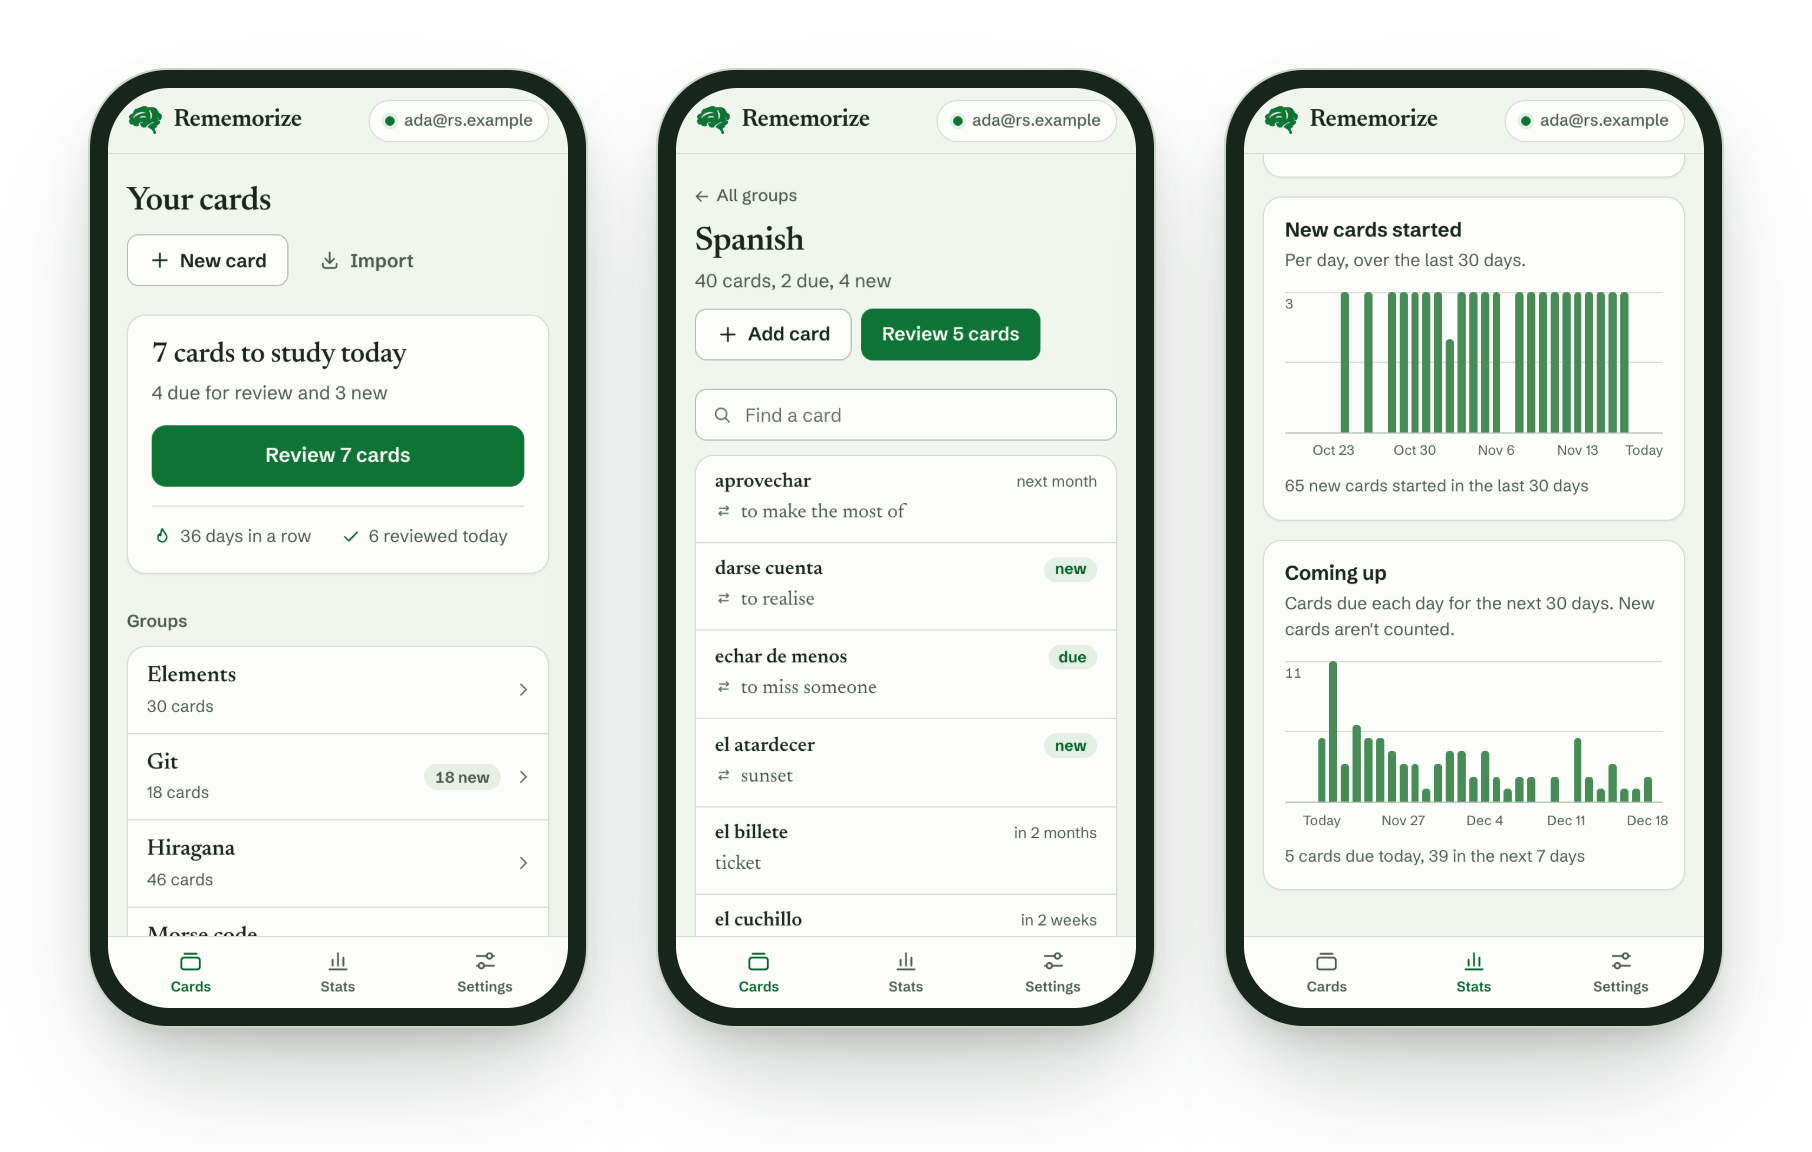
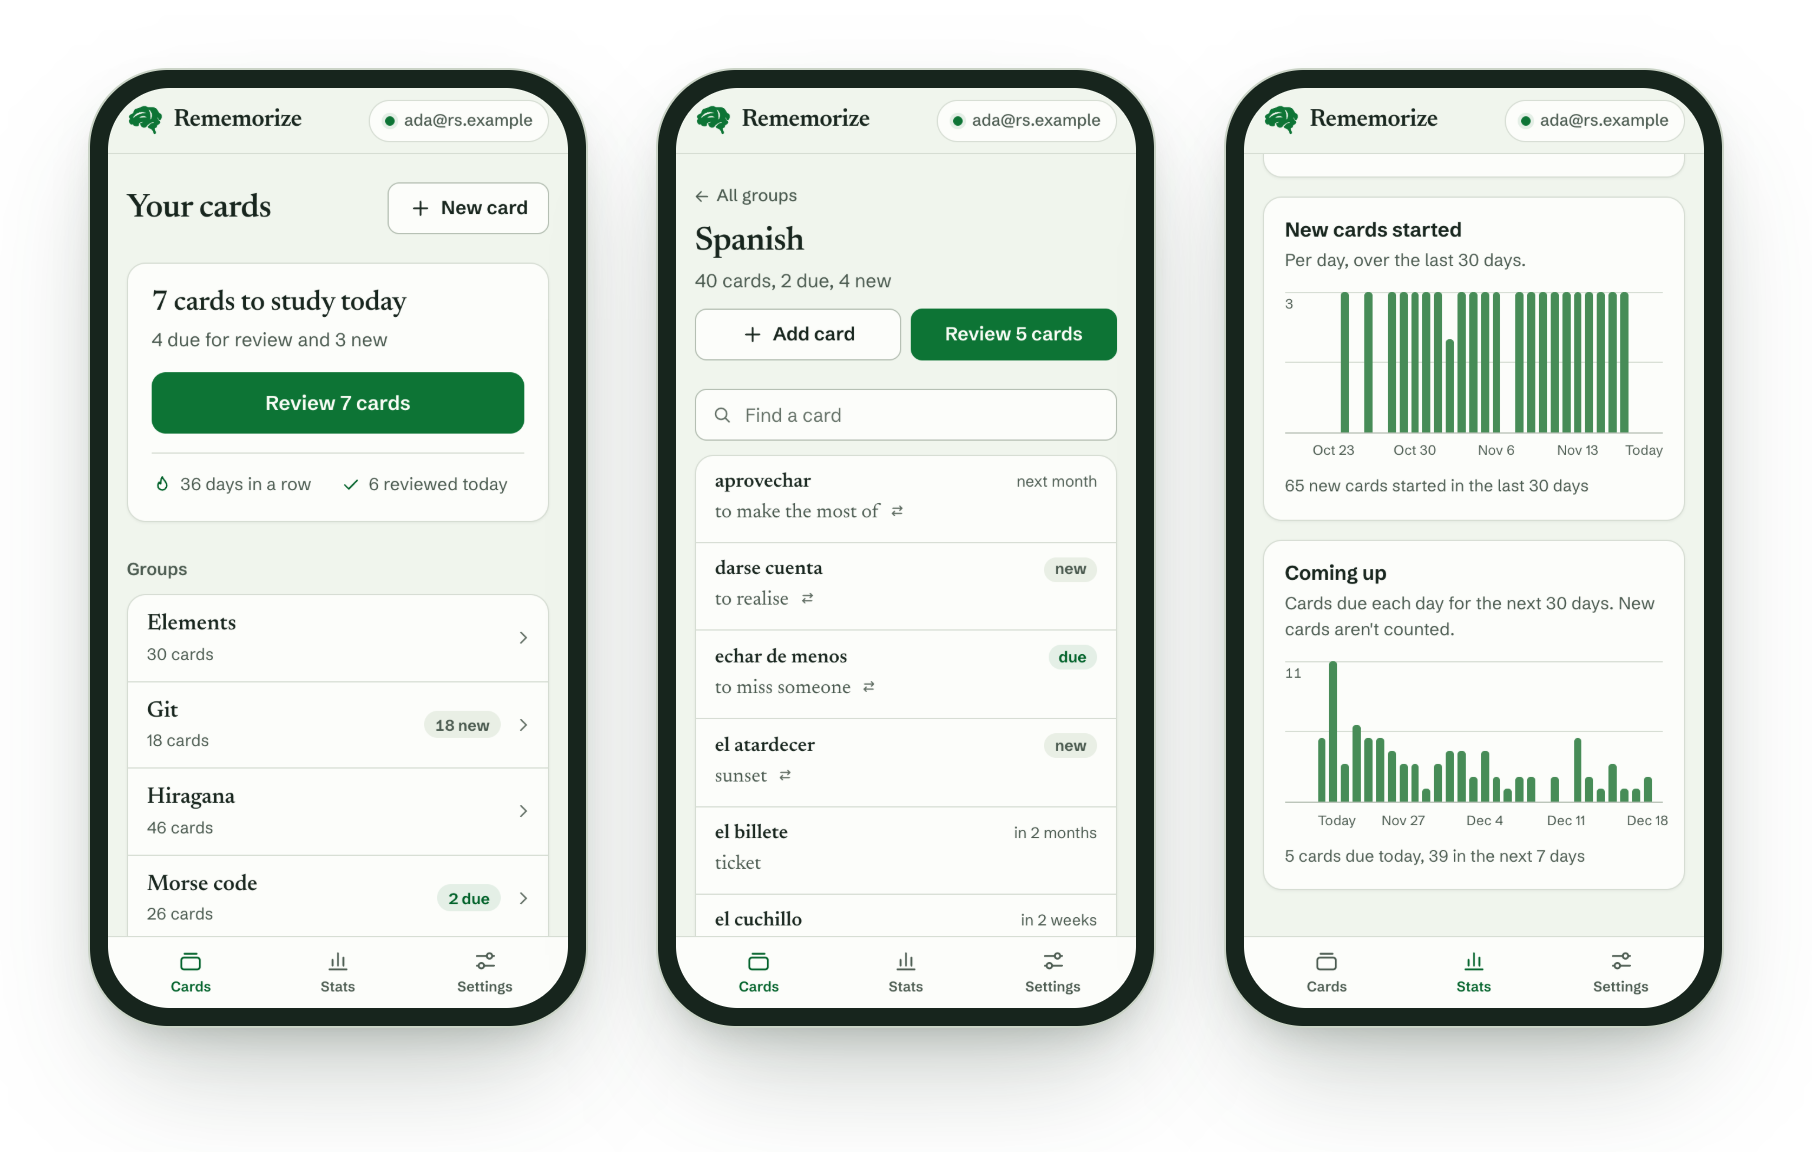
A deeper dark page, and the rest of the third review
Panels barely stood off the dark page, so it is a step deeper. The theme
switch in Settings looked inverted in dark, its chosen option darker than
the track: tracks and the pieces raised in them now have their own tokens.

On a phone the home title and New card share one row; Import stays in
Settings and, with no cards yet, sits beside "Add your first card" in
place of a second New card button. A group's two buttons share the width.

In a group, the direction mark trails the back text so every back starts
on one line, and a card not started yet is marked in grey: green is for
what is due. The first label under a bar chart stays inside the chart.

diff --git a/src/components/GroupView.svelte b/src/components/GroupView.svelte
@@ -105,15 +105,16 @@
                 <li>
                     <a class="card content" href={href.card(card.group, card["@id"])}>
                         <span class="front">{card.frontText}</span>
+                        <!-- The direction mark trails the text, so every back starts on the same line. -->
                         <span class="back muted">
+                            {card.backText}
                             {#if card.direction === "both"}
                                 <span class="direction" title="Studied both ways"><Icon name="both" size={15} /></span>
                             {:else if card.direction === "reverse"}
                                 <span class="direction" title="Studied back → front"><Icon name="reverse" size={15} /></span>
                             {/if}
-                            {card.backText}
                         </span>
-                        <span class="when" class:due={next.due}>{next.text}</span>
+                        <span class="when" class:due={next.due} class:fresh={next.text === "new"}>{next.text}</span>
                     </a>
                 </li>
             {/each}
@@ -177,7 +178,7 @@
 
     .direction {
         display: inline-block;
-        margin-right: 0.2rem;
+        margin-left: 0.25rem;
         vertical-align: -0.12em;
         color: var(--text-faint);
     }
@@ -198,6 +199,12 @@
         font-weight: 650;
     }
 
+    /* Green is for what is due; a card not started yet is marked more quietly, as on the home page. */
+    .when.fresh {
+        background: var(--surface-2);
+        color: var(--text-muted);
+    }
+
     @media (max-width: 560px) {
         .card {
             grid-template-columns: minmax(0, 1fr) auto;
@@ -207,6 +214,15 @@
         .back {
             grid-column: 1;
             grid-row: 2;
+        }
+
+        /* The two buttons share the width. */
+        .page-head .actions {
+            width: 100%;
+        }
+
+        .page-head .actions .btn {
+            flex: 1 1 0;
         }
     }
 

diff --git a/src/app.css b/src/app.css
@@ -31,6 +31,9 @@
     --primary: oklch(0.49 0.13 150);
     --primary-hover: oklch(0.44 0.12 150);
     --primary-ink: oklch(0.99 0.01 130);
+    /* A recessed track, and the piece that sits raised in it (a segmented control). */
+    --well: oklch(0.912 0.018 136);
+    --raised: oklch(0.993 0.004 125);
     --danger: oklch(0.5 0.17 27);
     --again: oklch(0.52 0.17 27);
     --hard: oklch(0.54 0.12 68);
@@ -64,7 +67,7 @@
 @media (prefers-color-scheme: dark) {
     :root:not([data-theme="light"]) {
         color-scheme: dark;
-        --bg: oklch(0.222 0.015 165);
+        --bg: oklch(0.2 0.014 165);
         --surface: oklch(0.258 0.017 165);
         --surface-2: oklch(0.292 0.018 165);
         --surface-3: oklch(0.33 0.02 165);
@@ -80,6 +83,8 @@
         --primary: oklch(0.5 0.115 152);
         --primary-hover: oklch(0.55 0.12 152);
         --primary-ink: oklch(0.97 0.025 150);
+        --well: oklch(0.2 0.014 165);
+        --raised: oklch(0.33 0.02 165);
         --danger: oklch(0.76 0.13 25);
         --again: oklch(0.76 0.13 25);
         --hard: oklch(0.82 0.11 80);
@@ -92,7 +97,7 @@
 
 :root[data-theme="dark"] {
     color-scheme: dark;
-    --bg: oklch(0.222 0.015 165);
+    --bg: oklch(0.2 0.014 165);
     --surface: oklch(0.258 0.017 165);
     --surface-2: oklch(0.292 0.018 165);
     --surface-3: oklch(0.33 0.02 165);
@@ -107,6 +112,8 @@
     --primary: oklch(0.5 0.115 152);
     --primary-hover: oklch(0.55 0.12 152);
     --primary-ink: oklch(0.97 0.025 150);
+    --well: oklch(0.2 0.014 165);
+    --raised: oklch(0.33 0.02 165);
     --danger: oklch(0.76 0.13 25);
     --again: oklch(0.76 0.13 25);
     --hard: oklch(0.82 0.11 80);

diff --git a/src/components/Home.svelte b/src/components/Home.svelte
@@ -22,10 +22,13 @@
 
 <div class="page-head">
     <h1>Your cards</h1>
-    <div class="actions">
-        <a class="btn ghost" href={href.import()}><Icon name="import" />Import</a>
-        <a class="btn" href={href.newCard()}><Icon name="plus" />New card</a>
-    </div>
+    <!-- With no cards yet, the panel below offers both ways to start. -->
+    {#if library.loaded && library.groups.length > 0}
+        <div class="actions">
+            <a class="btn ghost import" href={href.import()}><Icon name="import" />Import</a>
+            <a class="btn" href={href.newCard()}><Icon name="plus" />New card</a>
+        </div>
+    {/if}
 </div>
 
 {#if library.error}
@@ -50,6 +53,7 @@
         </p>
         <div class="empty-actions">
             <a class="btn primary" href={href.newCard()}>Add your first card</a>
+            <a class="btn" href={href.import()}><Icon name="import" />Import a file</a>
         </div>
     </div>
 {:else}
@@ -129,6 +133,9 @@
     }
 
     .empty-actions {
+        display: flex;
+        flex-wrap: wrap;
+        gap: 0.5rem;
         margin-top: 0.5rem;
     }
 
@@ -273,9 +280,14 @@
             padding-left: 1rem;
         }
 
-        /* Under the title, the bordered button comes first so the row starts on the page's left edge. */
-        .page-head .ghost {
-            order: 1;
+        /* The title and New card share one row; importing is in Settings too. */
+        .page-head {
+            flex-wrap: nowrap;
+            align-items: center;
+        }
+
+        .import {
+            display: none;
         }
     }
 </style>

diff --git a/index.html b/index.html
@@ -6,7 +6,7 @@
         <meta name="description" content="Flashcards with spaced repetition, stored in your own remoteStorage." />
         <!-- The page background in each scheme; src/lib/theme.ts overrides both when a theme is forced. -->
         <meta name="theme-color" data-scheme="light" media="(prefers-color-scheme: light)" content="#f0f5ed" />
-        <meta name="theme-color" data-scheme="dark" media="(prefers-color-scheme: dark)" content="#151d19" />
+        <meta name="theme-color" data-scheme="dark" media="(prefers-color-scheme: dark)" content="#101814" />
         <meta name="mobile-web-app-capable" content="yes" />
         <meta name="apple-mobile-web-app-capable" content="yes" />
         <meta name="apple-mobile-web-app-status-bar-style" content="default" />

diff --git a/src/components/Account.svelte b/src/components/Account.svelte
@@ -267,7 +267,8 @@
     }
 
     .number {
-        width: 7rem;
+        width: 5.5rem;
+        font-variant-numeric: tabular-nums;
     }
 
     /* Three choices, one of them always on. */
@@ -280,7 +281,7 @@
         margin-top: 0.25rem;
         padding: 3px;
         border-radius: 12px;
-        background: var(--surface-3);
+        background: var(--well);
     }
 
     .segments label {
@@ -310,7 +311,7 @@
     }
 
     .segments input:checked + span {
-        background: var(--surface);
+        background: var(--raised);
         color: var(--text);
         box-shadow: var(--shadow-sm);
     }

diff --git a/vite.config.ts b/vite.config.ts
@@ -49,8 +49,8 @@ export default defineConfig({
                 scope: "./",
                 display: "standalone",
                 // The dark page colour (--bg in src/app.css), which is also the icons' background.
-                background_color: "#151d19",
-                theme_color: "#151d19",
+                background_color: "#101814",
+                theme_color: "#101814",
                 icons: [
                     { src: "icon-192.png", sizes: "192x192", type: "image/png" },
                     { src: "icon-512.png", sizes: "512x512", type: "image/png" },

diff --git a/src/lib/theme.ts b/src/lib/theme.ts
@@ -13,7 +13,7 @@ export const THEMES: { value: Theme; label: string }[] = [
 const THEME_KEY = "rememorize:theme";
 
 /** The page background in each scheme, for the browser's toolbar. Keep in step with --bg in app.css. */
-export const PAGE_COLOR = { light: "#f0f5ed", dark: "#151d19" } as const;
+export const PAGE_COLOR = { light: "#f0f5ed", dark: "#101814" } as const;
 
 export function parseTheme(value: unknown): Theme {
     return value === "light" || value === "dark" ? value : "auto";

diff --git a/src/components/BarChart.svelte b/src/components/BarChart.svelte
@@ -118,7 +118,11 @@
         white-space: nowrap;
     }
 
-    /* The last label stays inside the chart instead of centring on its bar. */
+    /* The first and last labels stay inside the chart instead of centring on their bars. */
+    .tick:first-child {
+        justify-content: flex-start;
+    }
+
     .tick:last-child {
         justify-content: flex-end;
     }

diff --git a/docs/DEVELOPMENT.md b/docs/DEVELOPMENT.md
@@ -127,9 +127,10 @@ and the navigation is a tab bar along the bottom; above 880px both become a
 sidebar. On a phone, a review hides the header and the tab bar so the card has
 the whole screen, and the card editor swaps the tab bar for its Save button.
 
-If you change the page background (`--bg`), change it in three more places:
+If you change the page background (`--bg`), change it in four more places:
 `PAGE_COLOR` in `src/lib/theme.ts` and the `theme-color` tags in `index.html`
-(the browser's toolbar), and the manifest colours in `vite.config.ts`.
+(the browser's toolbar), the manifest colours in `vite.config.ts`, and `BOARD`
+in `scripts/icons.mjs` (the icons' background; run `bun run icons` after).
 
 ## Icons and logos
 
